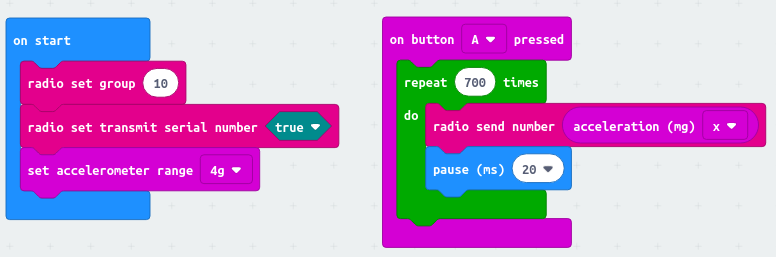
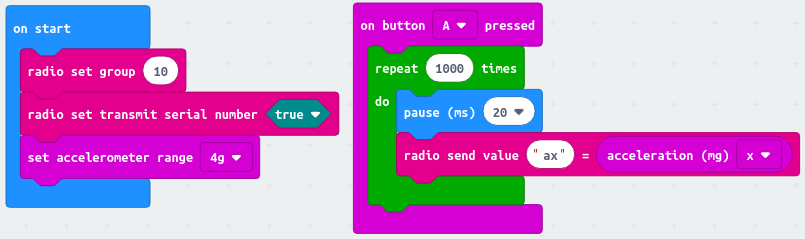
update example, and use language sytem

diff --git a/src/app/example/example.component.html b/src/app/example/example.component.html
@@ -1,65 +1,27 @@
 <div class="cards-container">
     <mat-card>
-        <mat-card-title>Eksempel, måling av løpetur</mat-card-title>
+        <mat-card-title>{{lang.example.title}}</mat-card-title>
         <mat-card-header>
-            I dette eksempelet vil vi måle bevegelsen til en person som løper. Dataene vil bli logget til denne siden,
-            slik at vi kan laste den og tegne grafer.
+            {{lang.example.text1}}
         </mat-card-header>
         <br>
         <mat-card-header>
-            Koden under får en micro:bit til å sende ut akselerasjon data 700 ganger, med omtrent 20 millisekunder
-            mellomrom. Dette vil si at den sender data i omtrent 14 sekunder. Merk at vi har spesifikt bedt micro:biten
-            om å sende serienummeret sitt. Dersom man ikke gjør dette blir IDen satt til null, og man kan ikke skille på
-            forskjellige micro:bit.
+            {{lang.example.text2}}        
         </mat-card-header>
         <br>
         <img style="width: 70%;" src="/assets/example_makecode.png" alt="Eksempelkode, makecode">
 
         <br>
         <mat-card-header>
-            Siden vi programmerte micro:biten til å sende meldinger på radiogruppe 10, må vi velge tilsvarende gruppe
-            som vist under
+            {{lang.example.text3}}
         </mat-card-header>
         <br>
-        <img style="width: 70%;" src="/assets/monitor_settings.png" alt="Instillinger, datalogging">
-
         <br>
         <mat-card-header>
-            For å koble til mottakeren må man velge korrekt port, den heter sannsynligvis noe med "JLINK" eller "SEGGER"
+            {{lang.example.text4}}
         </mat-card-header>
         <br>
-        <img src="/assets/requestport_popup.png" alt="Popup, velg port">
-
-
-        <br>
-        <mat-card-header>
-            Nå er mottakeren klar til å ta imot data fra micro:biten. Vi putter den i lomma, trykker på A-knappen og tar
-            en kjapp løpetur. Man kan følge med på dataen etter hvert som den kommer inn på hovedsiden. Under kan vi se at
-            vi har mottatt 700 meldinger, som betyr at samtlige meldinger ble korrekt mottatt. Det er ikke uvanlig at
-            noen meldinger ikke blir mottatt på grunn av dårlig signal eller andre problemer. Nederst på siden kan vi
-            velge å laste ned en liste over alle meldingene som har kommet inn. Her kan vi også filtrere på serienummer,
-            slik at vi bare får den micro:biten vi er interessert i. </mat-card-header>
-        <br>
-        <img style="width: 70%;" src="/assets/example_download_data.png" alt="Last ned data">
-
-
-        <br>
-        <mat-card-header>
-            Den nedlastede filen er i et format som heter "comma separated values". Dette kan åpnes av de fleste
-            databehandlingsprogram, for eksempel Excel eller Google Regneark. Filen kan åpnes ved å gå til Google
-            Regneark, trykke på "Fil" og så "Importer". En meny tilsvarende den under vil dukke opp.</mat-card-header>
-        <br>
-        <img style="width: 40%;" src="/assets/sheets_import.png" alt="Importer data til Google Sheets">
-
-        <br>
-        <mat-card-header>
-            Etter å ha importert dataen til regnearket, kan vi legge til en graf for å få et bedre inntrykk av dataen.
-            Dette gjøres ved å trykke på "Sett inn" og så "Figurer", her får man mulighet til å endre en del på
-            innstillingen til figuren. Grafen under er resultatet av løpeturen. Her kan vi tydelig se antall steg og
-            stegfrekvens.
-        </mat-card-header>
-        <br>
-        <img style="width: 70%;" src="/assets/data_graph.png" alt="Graf i Google Sheets">
+        <img style="width: 70%;" src="/assets/example_plot.png" alt="Last ned data">
 
     </mat-card>
 

diff --git a/src/language/language.en.ts b/src/language/language.en.ts
@@ -63,5 +63,18 @@ export const language: LanguageInterface = {
         text4: 'The receiver needs to be programmed with the correct code. This is done by downloading the file corresponding to your receiver below, and then programming your receiver in the same way that you would program your micro:bit.',
         receiver: 'Receiver',
         buttonDownload: 'Download',
+    },
+    example: {
+        title: 'Example: Measuring acceleration',
+        text1: `In this example we will measure the acceleration of a micro:bit.
+        This tool requires that a device that can receive micro:bit messages is configured and connected to the PC. If you have not done that already, go to "receiver setup" in the menu and program the receiver.`,
+        text2: `We program a micro:bit with the code shown below. This code makes the micro:bit send acceleration data 1000 times, with about 20 milliseconds between each packet. Note that we have specified that the micro:bit should send it's serial number. If we don't do this, the serial number is set to all zeros, and we can't tell different micro:bits apart.`,
+        text3: `After clicking the connect button, you should see a list of connected devices. 
+        If you are using a micro:bit as the receiver it will be called "BBC_micro:bit" or "USB Serial Device", depending on your operating system. If you are using one of the other options the name will include "J-link".
+        Select the correct input and continue.`,
+        text4: `Since we programmed the micro:bit to use radio group 10, we need to select the same radio group on top of the monitor page.
+        Now the tool is ready to receive messages from the micro:bit. When the "A" button is pressed, the data should start coming in.
+        The received data can be plotted directly in the tool. The graph below is the result of rotating the micro:bit slowly while it was sending data.
+        The received data can also be downloaded in csv format, which can be directly imported into a number of programs like Excel and Google Sheets.`,
     }
 }

diff --git a/src/language/language.nb.ts b/src/language/language.nb.ts
@@ -63,5 +63,19 @@ export const language: LanguageInterface = {
         text4: 'Mottakeren må programmeres, Dette gjøres ved å laste ned rett fil under, for så å programmere den på samme måte som en micro:bit.',
         receiver: 'Mottaker',
         buttonDownload: 'Last ned',
+    },
+    example: {
+        title: 'Eksempel: Måling av akselerasjon',
+        text1: `I dette eksempelet vil vi måle akselerasjonen til en micro:bit.
+        For å bruke dette verktøyet må en mottaker være koblet koblet til PCen. Dersom du ikke har gjort dette klart, gå til "mottakeroppsett" i menyen for å konfigurere en mottaker.`,
+        text2: `Koden under får en micro:bit til å sende akselerasjonen in x-reting 1000 ganger med 20 millisekunders mellomrom. Merk at vi har spesifisert at micro:biten skal sende serienummeret sitt, dersom dette ikke blir gjort kan vi ikke skille på data mottatt fra forskjellige micro:bit.`,
+        text3: `For å koble til mottakeren trykker vi på "koble til", da vil en liste med tilgjengelige enheter dukke opp. Dersom du bruker en micro:bit som mottaker vil den hete "BBC_micro:bit" eller "USB Serial Device", 
+        avhengig av operativsystemet ditt. Dersom du bruker en av de andre alternativene som mottaker, vil navnet inneholde "J-Link". 
+        Velg rett enhet, og trykk videre.`,
+        text4: `Siden vi i koden over valgte å sende på radiogruppe 10, må vi velge den samme radiogruppen i dette verktøyet.
+        Nå er vi klar for å motta data. Når knappen merket "A" på micro:biten trykkes begynner den å sende data, og det skal dukke opp i dette verktøyet.
+        Vi kan plotte data direkte i dette verktøyet. Grafen under viser resulterende data etter at micro:biten ble rotert sakte mens den sendte data.
+        Mottatt data kan også lastes ned i csv-format, disse filene kan importeres direkte i regneark for videre behandling.`,
     }
+
 }

diff --git a/src/app/example/example.component.ts b/src/app/example/example.component.ts
@@ -1,15 +1,14 @@
-import { Component, OnInit } from '@angular/core';
+import { Component } from '@angular/core';
+import { language } from 'src/language/language'
 
 @Component({
   selector: 'app-example',
   templateUrl: './example.component.html',
   styleUrls: ['./example.component.css']
 })
-export class ExampleComponent implements OnInit {
+export class ExampleComponent {
 
   constructor() { }
-
-  ngOnInit() {
-  }
+  lang = language;
 
 }

diff --git a/src/language/languageInterface.ts b/src/language/languageInterface.ts
@@ -61,5 +61,12 @@ export interface LanguageInterface {
         text4: string,
         receiver: string,
         buttonDownload: string,
+    },
+    example: {
+        title: string,
+        text1: string,
+        text2: string,
+        text3: string,
+        text4: string,
     }
 }
